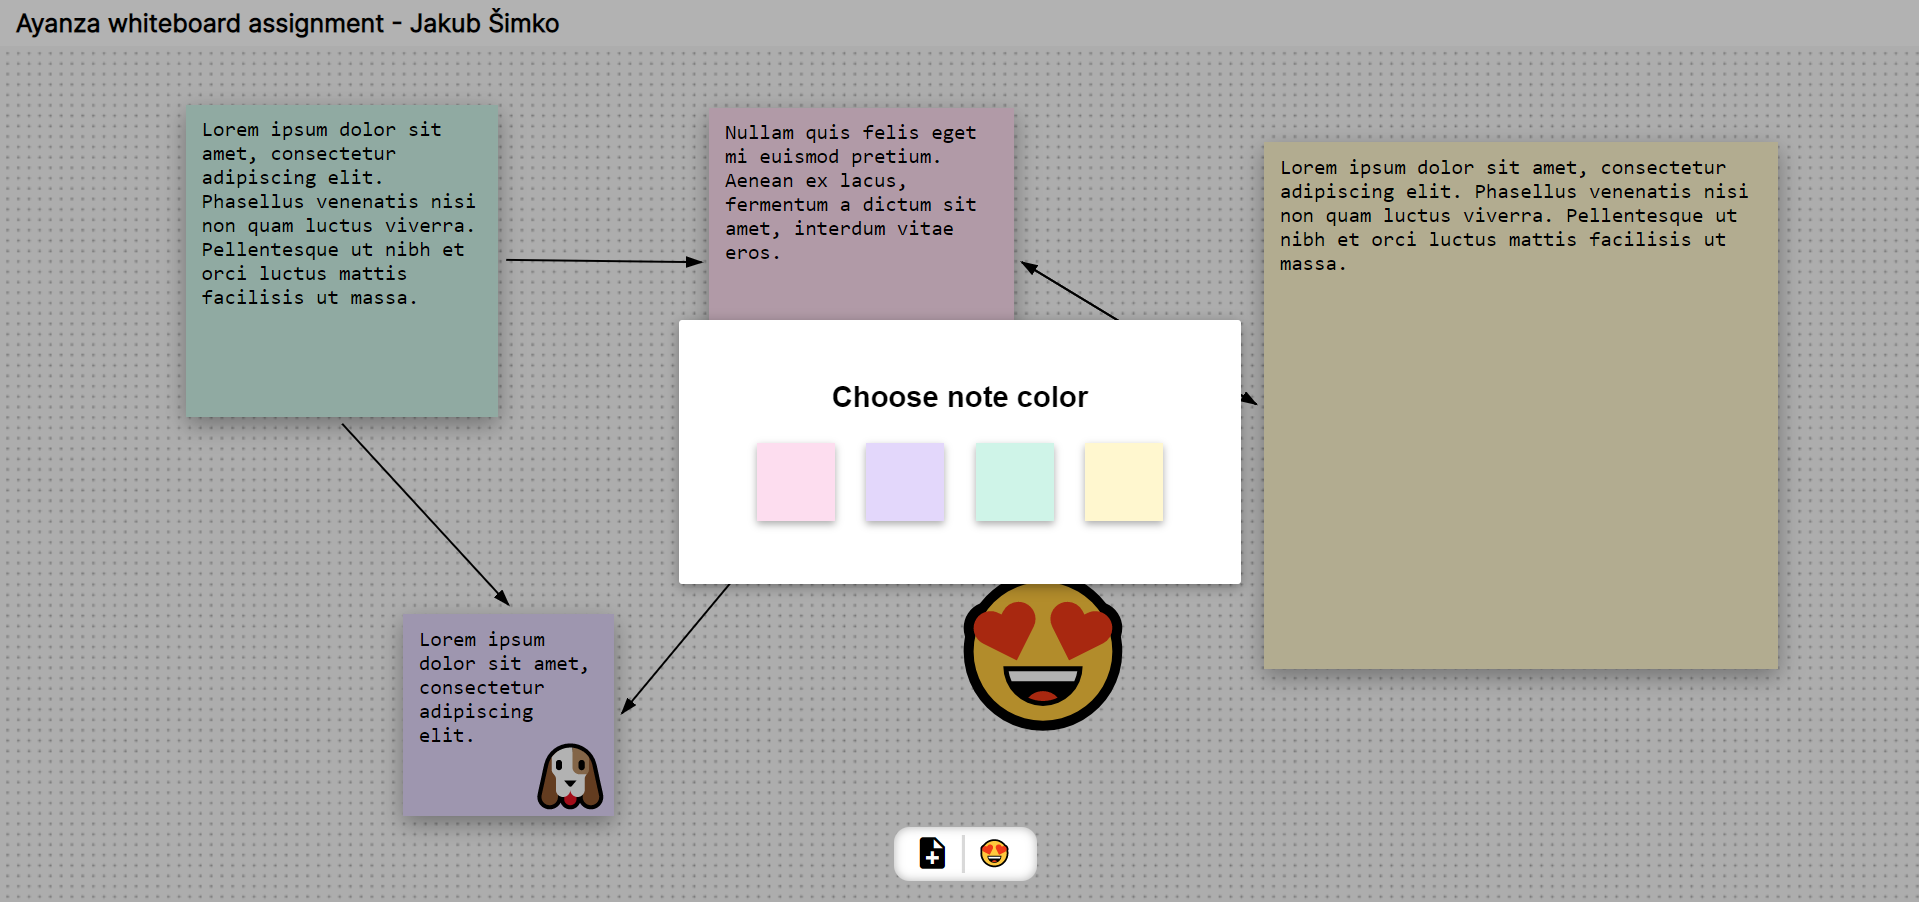
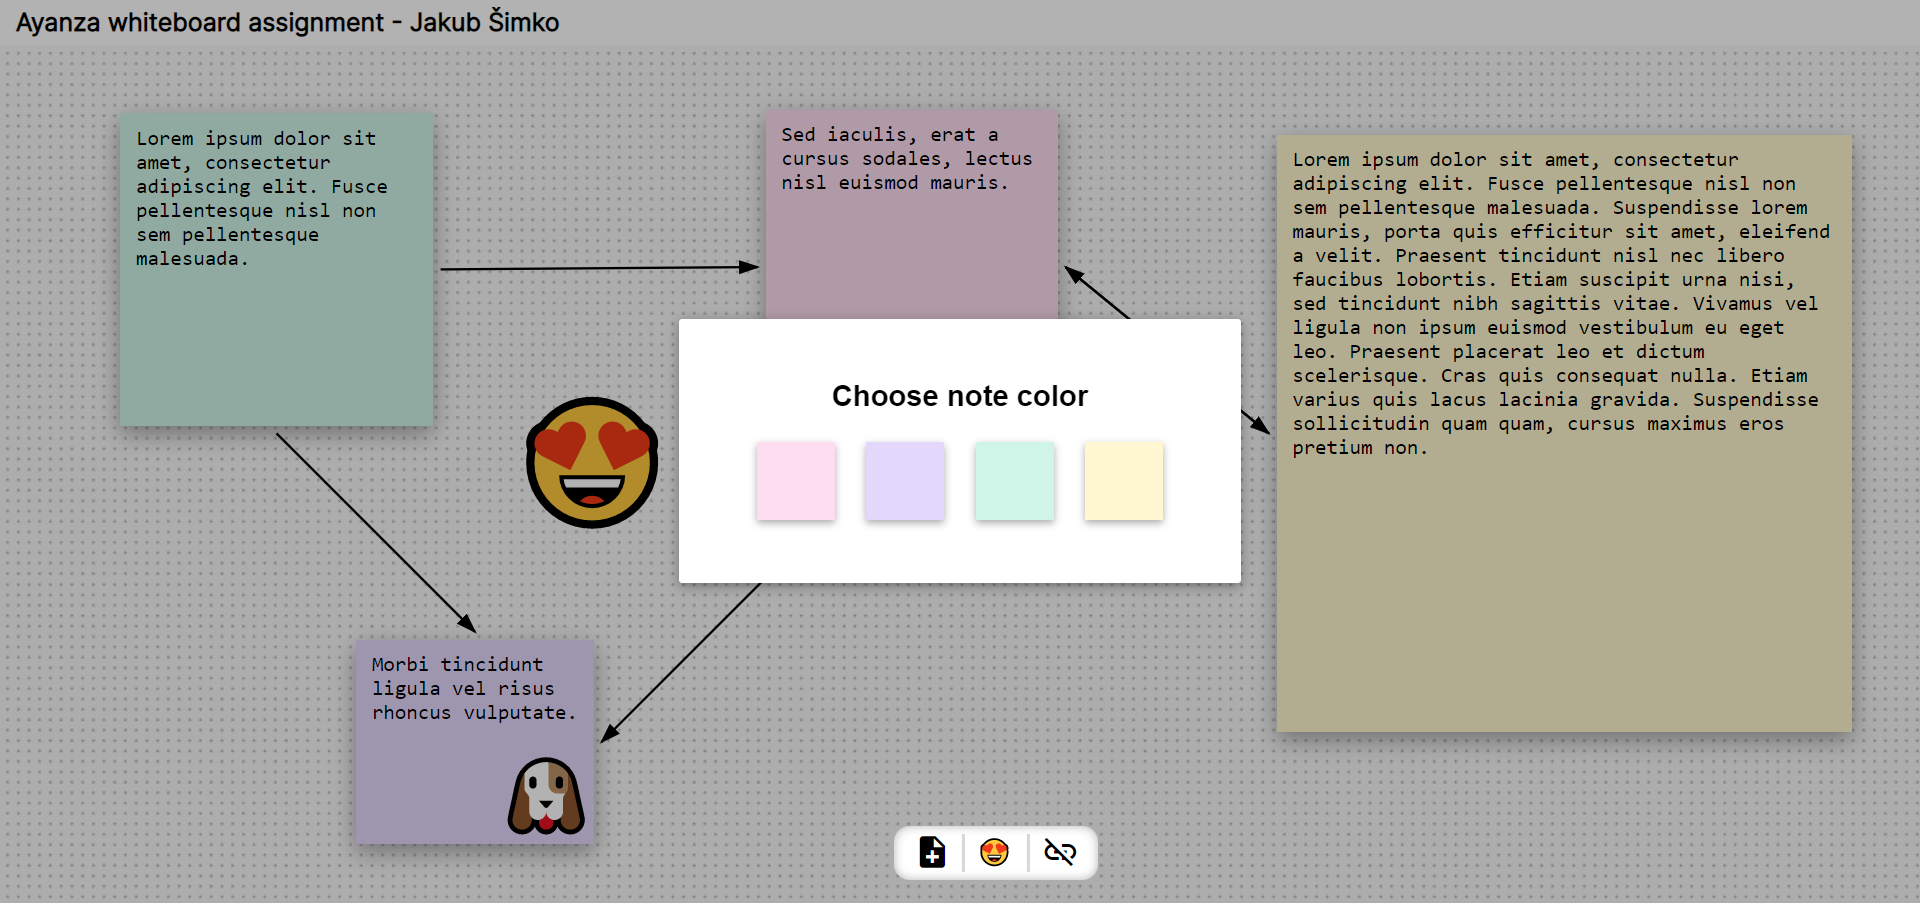
update final images

diff --git a/src/components/WhiteBoard.vue b/src/components/WhiteBoard.vue
@@ -178,9 +178,9 @@ export default defineComponent({
         obj2: connectionEnd,
       });
 
-      this.cancelConnection();
+      this.cancelConnectionCreation();
     },
-    cancelConnection() {
+    cancelConnectionCreation() {
       if (this.currentStartOfConnection === undefined) return;
 
       // reset start connection and active connector effect
@@ -378,7 +378,7 @@ export default defineComponent({
     class="board"
     @mouseup="stopDragResize"
     @mousemove.prevent="onMouseMove"
-    @keydown.esc="cancelConnection"
+    @keydown.esc="cancelConnectionCreation"
   >
     <StickyNote
       v-for="note in stickyNotes"
@@ -391,7 +391,7 @@ export default defineComponent({
       v-on:start-drag-resize="startDragResize"
       v-on:start-connection="startConnection"
       v-on:finish-connection="finishConnection"
-      v-on:cancel-connection="cancelConnection"
+      v-on:cancel-connection="cancelConnectionCreation"
       v-on:mouse-over="setTemporaryEnd"
       v-on:mouse-leave="setTemporaryEndToCursor"
       v-on:increment-z-index="currentMaxZIndex++"
@@ -447,7 +447,10 @@ export default defineComponent({
     <span
       class="material-icons button"
       :class="{ 'active-removal': activeConnectionRemoval }"
-      @click="activeConnectionRemoval = !activeConnectionRemoval"
+      @click="
+        activeConnectionRemoval = !activeConnectionRemoval;
+        cancelConnectionCreation();
+      "
     >
       link_off
     </span>

diff --git a/src/components/ObjectConnection/ObjectConnection.vue b/src/components/ObjectConnection/ObjectConnection.vue
@@ -7,7 +7,6 @@ import LineToItself from "./ConnectionTypes/LineToItself.vue";
 import LineToOther from "./ConnectionTypes/LineToOther.vue";
 
 export default defineComponent({
-  emits: ["remove-connection"],
   props: {
     obj1: { type: Object as PropType<Note>, required: true },
     obj2: { type: Object as PropType<Note | Cursor>, required: true },
